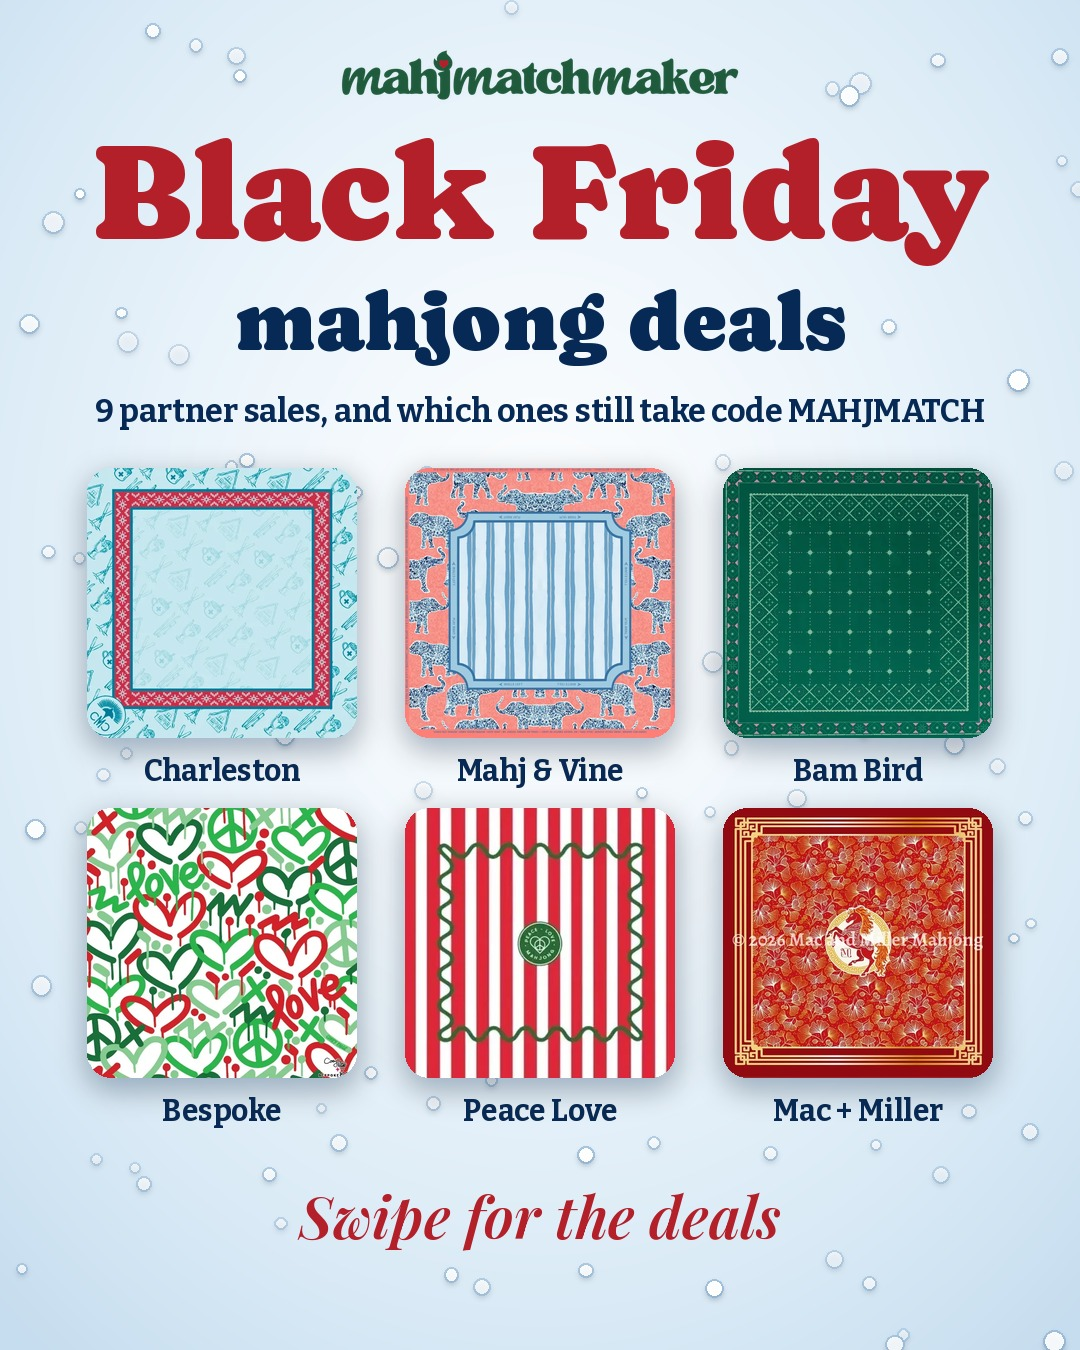
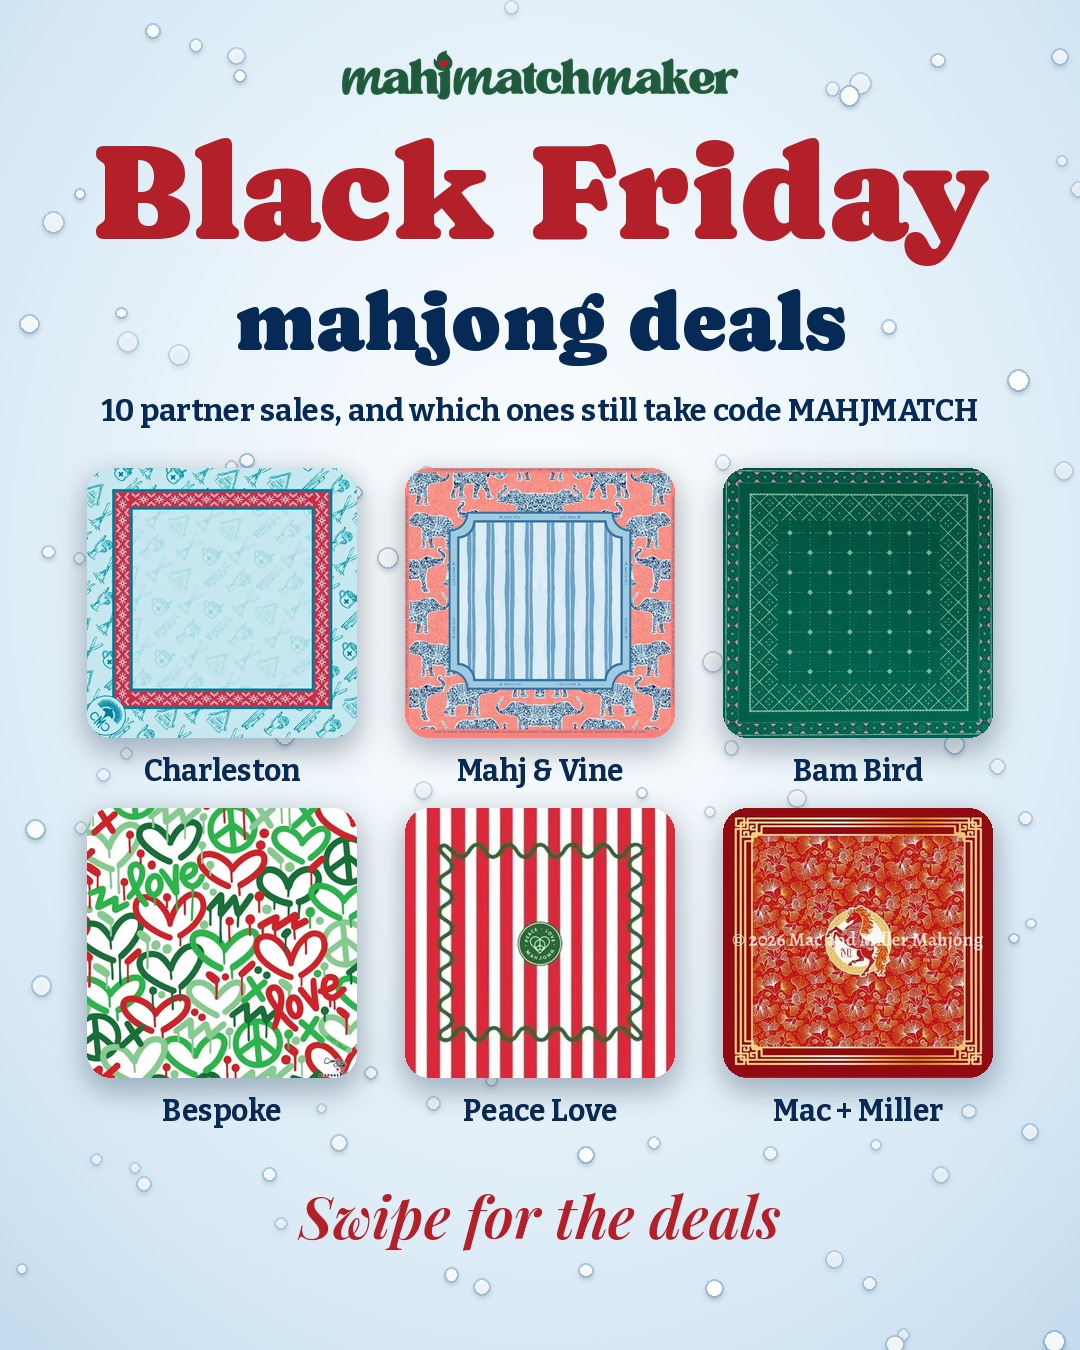
Black Friday carousel: add Mini Mahjer (10 deals), dates on the brand line

Changed region(s): [[0.0917, 0.28, 0.9167, 0.3111]]

diff --git a/assets/social/black-friday-nov17/build_bf.py b/assets/social/black-friday-nov17/build_bf.py
@@ -10,6 +10,7 @@ AMBER=(176,106,18); GRAYB=(92,112,138); LINE=(170,196,222)
 GROUPS=[
  ('Code MAHJMATCH works on top',GREEN,[
   ('Charleston Mahjong Club','Buy 2 save 10%, 3 save 15%, 4+ save 20%. Club bundles $425 (reg. $530).','Fri 11/27 to Mon 11/30','Charleston says MAHJMATCH takes 10% more on top'),
+  ('Mini Mahjer','15% off all bundles, no code needed. Travel bundles $191.25 (reg. $225).','On now','MAHJMATCH takes 10% more, so a travel bundle is $172.13'),
   ('Mahj & Vine','Every mat $65 (reg. $70), with free US shipping','On now','MAHJMATCH takes 10% more, so a mat is $58.50'),
   ('The Royal Mahjong Society','20% off sitewide, new Heirloom sets included','On now through Dec 1','Use MAHJMATCH for the full 20% off'),
  ]),
@@ -63,16 +64,24 @@ def wrap(d,t,f,w):
 def kicker(d):
     t='BLACK FRIDAY MAHJONG DEALS'; sp=4; w=sum(d.textlength(ch,font=fKick) for ch in t)+sp*(len(t)-1); x=W/2-w/2
     for ch in t: d.text((x,44),ch,font=fKick,fill=RED); x+=d.textlength(ch,font=fKick)+sp
+def inline_when(d,it):
+    return d.textlength(it[0],font=fBrand)+40+d.textlength(it[2],font=fWhen)<=TW
 def item_h(d,it):
-    return 47+len(wrap(d,it[1],fOff,TW))*36+38+48
+    return 47+len(wrap(d,it[1],fOff,TW))*36+(0 if inline_when(d,it) else 38)+52
 BOX=[]
 def tx(d,xy,t,f,fill):
     d.text(xy,t,font=f,fill=fill); BOX.append(d.textbbox(xy,t,font=f))
 def draw_item(base,d,y,it,col):
     brand,off,when,chip=it
-    tx(d,(MX,y),brand,fBrand,NAVY); y+=47
+    tx(d,(MX,y),brand,fBrand,NAVY); inl=inline_when(d,it)
+    if inl:
+        # same baseline as the brand name, right-aligned
+        bb=d.textbbox((0,0),brand,font=fBrand,anchor='ls'); wy=y-bb[1]
+        ww=d.textlength(when,font=fWhen); d.text((W-MX-ww,wy),when,font=fWhen,fill=RED,anchor='ls'); BOX.append(d.textbbox((W-MX-ww,wy),when,font=fWhen,anchor='ls'))
+    y+=47
     for l in wrap(d,off,fOff,TW): tx(d,(MX,y),l,fOff,NAVY); y+=36
-    tx(d,(MX,y),when,fWhen,RED); assert d.textlength(when,font=fWhen)<=TW; y+=38
+    if not inl: tx(d,(MX,y),when,fWhen,RED); assert d.textlength(when,font=fWhen)<=TW; y+=38
+    y+=4
     cw=d.textlength(chip,font=fChip)+40; assert cw<=TW,(chip,cw); ch=42; BOX.append((MX,y+4,MX+cw,y+4+ch))
     d.rounded_rectangle((MX,y+4,MX+cw,y+4+ch),ch/2,fill=col); bb=fChip.getbbox(chip); d.text((MX+20,y+4+(ch-(bb[3]-bb[1]))/2-bb[1]),chip,font=fChip,fill=(255,255,255))
 def deal_slide(n,groups):
@@ -84,7 +93,7 @@ def deal_slide(n,groups):
         for j,it in enumerate(items): blocks.append(('item',it,col,item_h(d,it)))
     top,bot=94,1266; need=sum(b[3] for b in blocks); gaps=len(blocks)-1
     g=(bot-top-need)/gaps; assert g>=16,(n,g)
-    g=min(g,72); y=top+(bot-top-need-g*gaps)/2
+    g=min(g,84); y=top+(bot-top-need-g*gaps)/2
     prev=None
     for b in blocks:
         if b[0]=='sec':
@@ -107,7 +116,7 @@ wm=Image.open(R+'assets/brand/mahjmatchmaker-wordmark-holiday-notag.png').conver
 base.alpha_composite(wm,((W-400)//2,48)); BOX.append(((W-400)//2,48,(W+400)//2,48+wm.size[1]))
 ctb(d,112,'Black Friday',ImageFont.truetype(CAP,138),RED)
 ctb(d,272,'mahjong deals',ImageFont.truetype(CAP,84),NAVY)
-ctb(d,392,'9 partner sales, and which ones still take code MAHJMATCH',fit(d,'9 partner sales, and which ones still take code MAHJMATCH',BIT,34,W-180),NAVY)
+ctb(d,392,'10 partner sales, and which ones still take code MAHJMATCH',fit(d,'10 partner sales, and which ones still take code MAHJMATCH',BIT,34,W-180),NAVY)
 picks=[('Charleston Mahjong Club','Ski Club Mat- Red Sweater Border','Charleston'),('Mahj & Vine','Chinoiserie Elephant','Mahj & Vine'),('Bam Bird Boutique','Bandana – Holiday Green/Pink accents','Bam Bird'),
        ('Bespoke Mahjong','Bespoke x Corey Paige - Holiday Love Mat - Red/Green','Bespoke'),('Peace Love Mahjong','Merry & Striped','Peace Love'),('Mac + Miller Mahjong','Heirloom Collection: Fire + Fortune Year of the Horse','Mac + Miller')]
 S_=270; gx=48; x0=(W-3*S_-2*gx)//2; y0=468; rowh=S_+70
